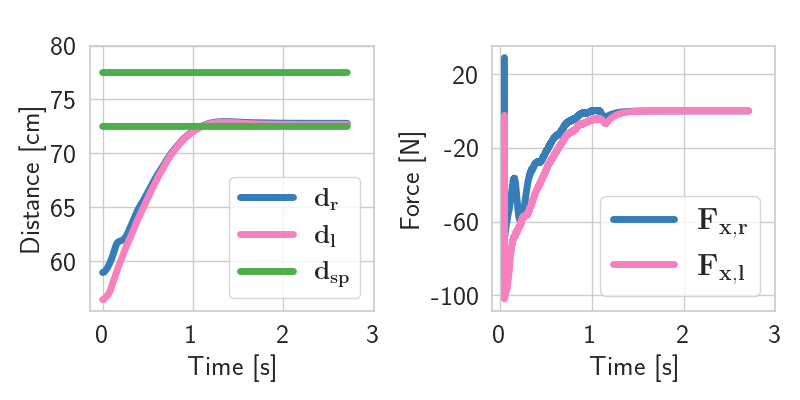
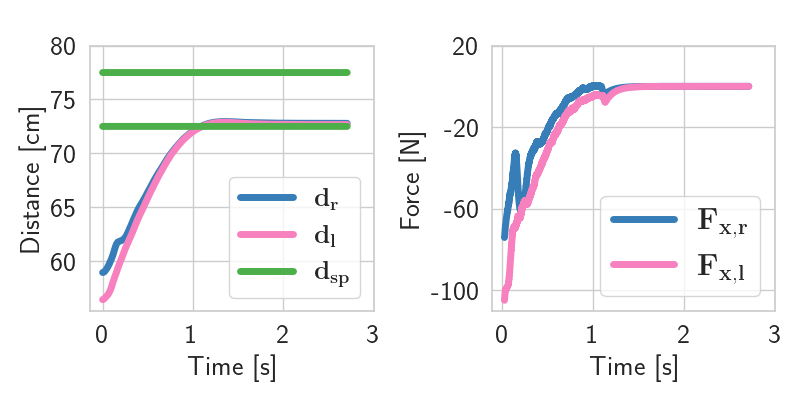
updated plot

diff --git a/uc_plotter.py b/uc_plotter.py
@@ -439,7 +439,7 @@ class UCPlotter:
         axs2 = fig.add_subplot(121)
         axs = fig.add_subplot(122)
 
-        plotter.plot_ee_force_ts(axs)
+        plotter.plot_ee_force_ts(axs, window_size=25)
         axs.xaxis.set_major_formatter(FuncFormatter(math_formatter))
         axs.yaxis.set_major_formatter(FuncFormatter(math_formatter))
         axs.set_xlabel("Time [s]")
